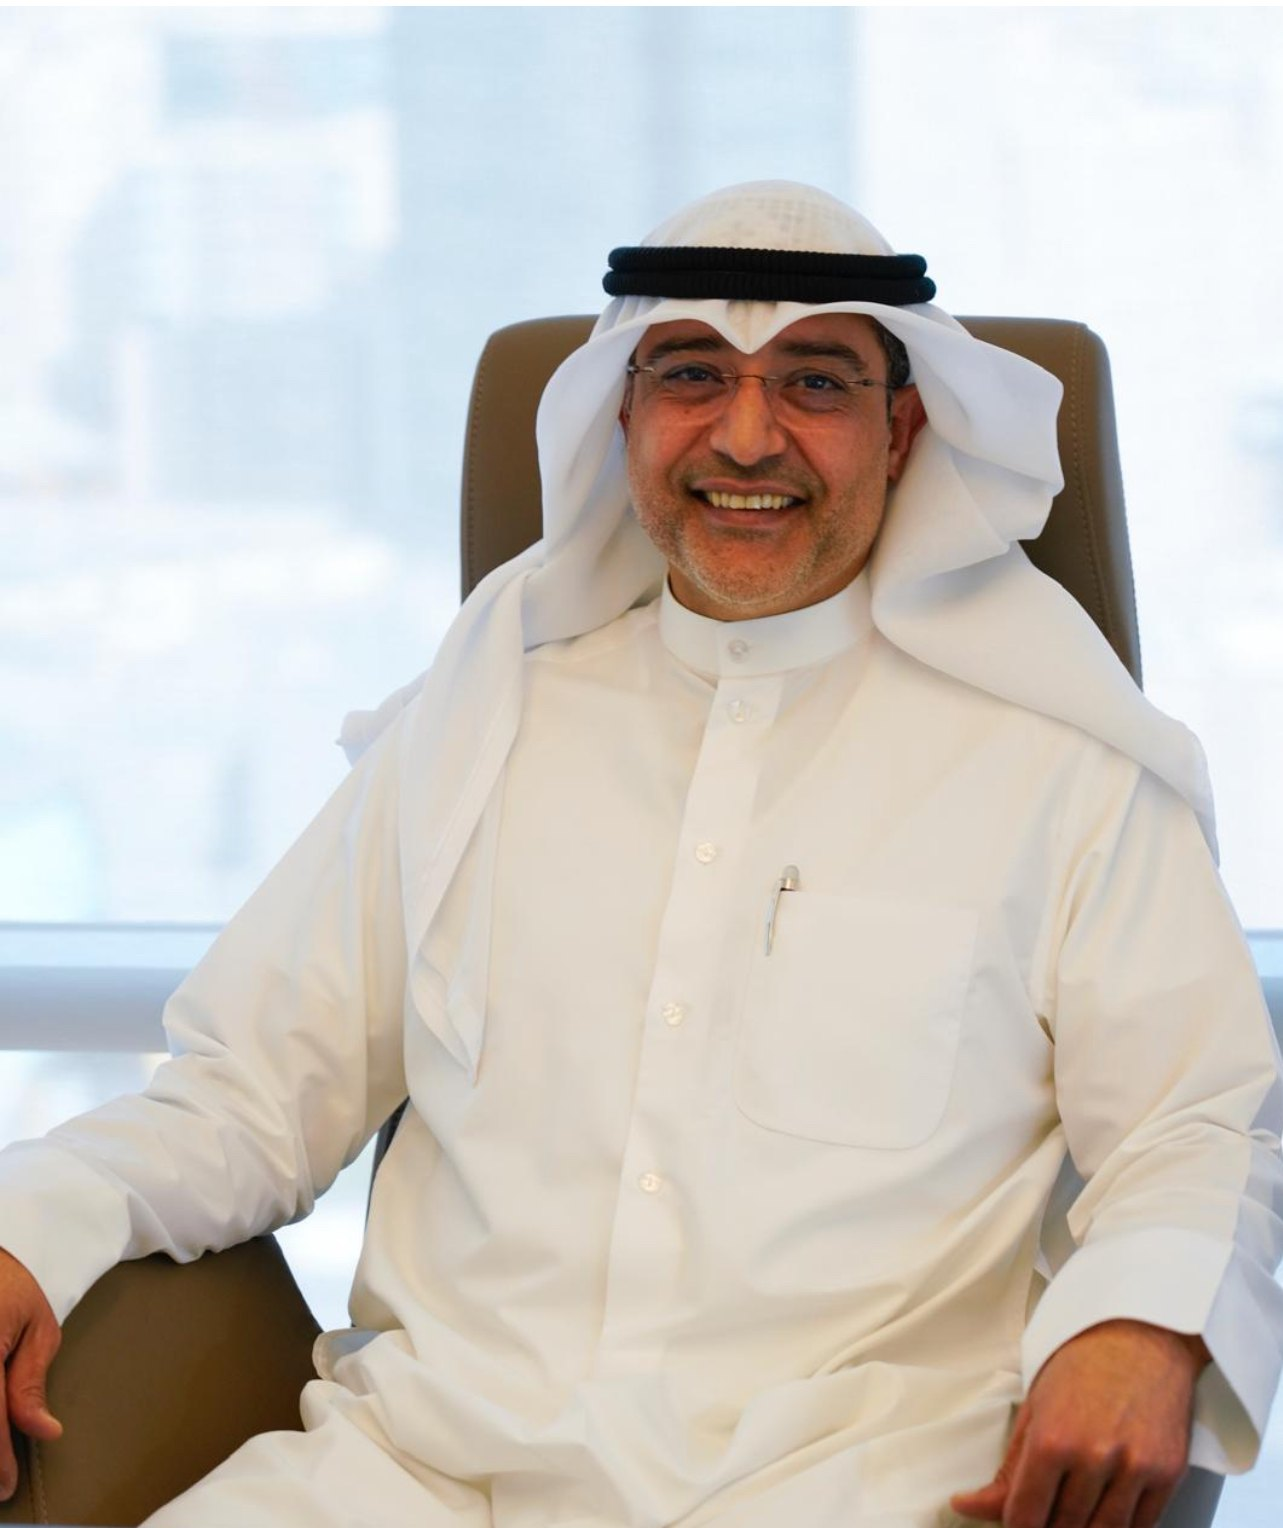
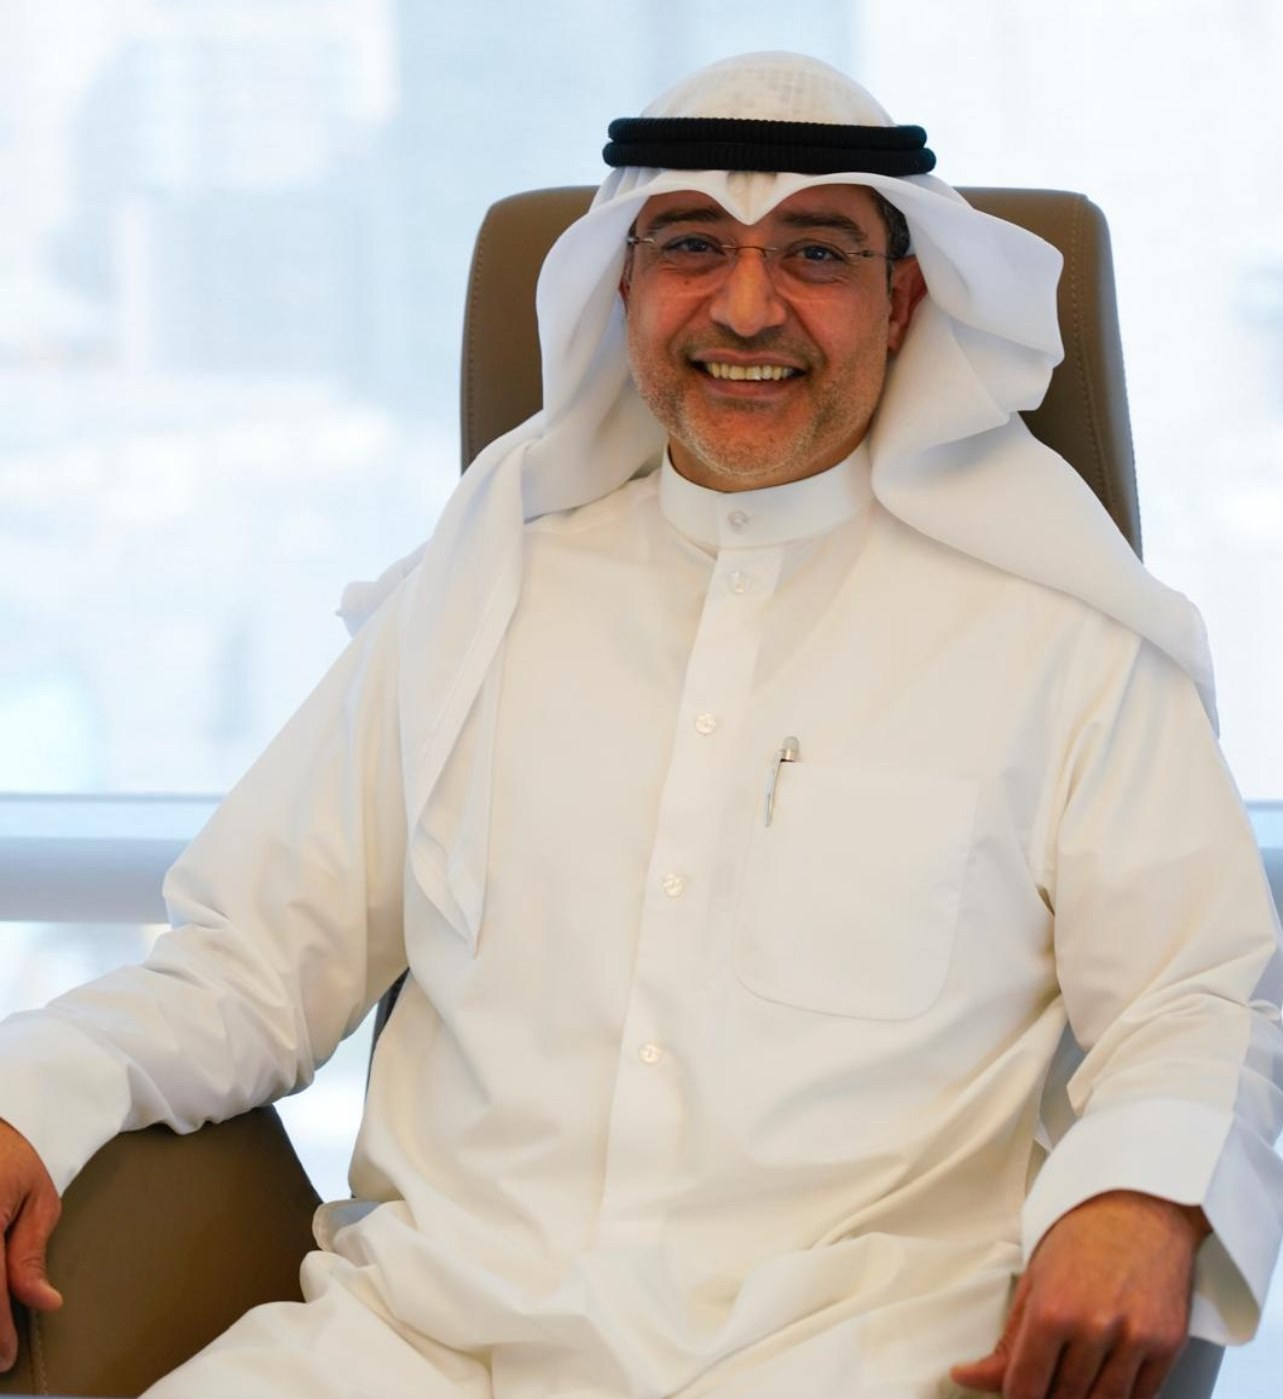
Add files via upload

diff --git a/script.js b/script.js
@@ -171,7 +171,6 @@ function initHeroFX() {
   }
 
   initHeroGem();     // المجسّم الرئيسي (Three.js)
-  initMiniGem();     // المجسّم المرافق الصغير
   initCursorRing();  // المؤشر الذهبي المخصّص
 }
 
@@ -285,69 +284,6 @@ function initHeroGem() {
     if (!reduced) {
       gem.rotation.y += 0.0016;            // دوران خمولي لطيف
       gem.position.y = Math.sin(t * 0.6) * 0.12; // طفو صعودًا وهبوطًا
-    }
-    renderer.render(scene, camera);
-  }
-  loop();
-}
-
-/* ============================================================
-   MINI GEM — المجسّم المرافق (أوكتاهيدرون ذهبي بجوار واتساب)
-   نفس فيزياء التتبّع المخمّد (lerp) — "ينظر" نحو المؤشر أينما ذهب
-   ============================================================ */
-function initMiniGem() {
-  var canvas = document.getElementById('miniGem');
-  if (!canvas || typeof THREE === 'undefined') return;
-  if (window.innerWidth <= 1024 || window.matchMedia('(hover: none)').matches) return;
-  var reduced = window.matchMedia('(prefers-reduced-motion: reduce)').matches;
-
-  var renderer;
-  try { renderer = new THREE.WebGLRenderer({ canvas: canvas, alpha: true, antialias: true }); }
-  catch (e) { return; }
-  renderer.setPixelRatio(Math.min(window.devicePixelRatio || 1, 2));
-  renderer.setSize(110, 110, false);
-
-  var scene = new THREE.Scene();
-  var camera = new THREE.PerspectiveCamera(45, 1, 0.1, 50);
-  camera.position.set(0, 0, 3.4);
-
-  var geo = new THREE.OctahedronGeometry(1.1, 0);
-  var mesh = new THREE.Mesh(geo, new THREE.MeshPhongMaterial({
-    color: 0xE8C468, specular: 0xFFF6D8, shininess: 100,
-    flatShading: true, emissive: 0x201603, emissiveIntensity: 0.55
-  }));
-  mesh.add(new THREE.LineSegments(
-    new THREE.WireframeGeometry(geo),
-    new THREE.LineBasicMaterial({ color: 0xC5A059, transparent: true, opacity: 0.4 })
-  ));
-  scene.add(mesh);
-  scene.add(new THREE.AmbientLight(0x223055, 1.0));
-  var key = new THREE.PointLight(0xFFE6A8, 1.4); key.position.set(2, 2, 3); scene.add(key);
-
-  // "ينظر" نحو المؤشر: زوايا هدف من موقع المؤشر نسبةً إلى موضع الكانفس الثابت
-  var tRX = 0, tRY = 0;
-  window.addEventListener('mousemove', function (e) {
-    var r = canvas.getBoundingClientRect();
-    var cx = r.left + r.width / 2, cy = r.top + r.height / 2;
-    tRY = Math.atan2(e.clientX - cx, 600) * 1.6;
-    tRX = Math.atan2(e.clientY - cy, 600) * 1.6;
-  }, { passive: true });
-
-  var running = true;
-  document.addEventListener('visibilitychange', function () {
-    running = !document.hidden; if (running) loop();
-  });
-
-  var t = 0;
-  function loop() {
-    if (!running) return;
-    requestAnimationFrame(loop);
-    t += 0.016;
-    mesh.rotation.x += (tRX - mesh.rotation.x) * 0.06; // نفس تخميد الرئيسي
-    mesh.rotation.y += (tRY - mesh.rotation.y) * 0.06;
-    if (!reduced) {
-      mesh.rotation.y += 0.002;
-      mesh.position.y = Math.sin(t * 0.8) * 0.1;
     }
     renderer.render(scene, camera);
   }

diff --git a/style.css b/style.css
@@ -71,31 +71,31 @@ h1, h2, h3, h4, h5 {
 /* ===== NAVBAR ===== */
 .navbar {
   position: fixed; top: 0; left: 0; right: 0; z-index: 1000;
-  padding: 1.2rem 0; transition: all 0.4s ease; background: transparent;
+  padding: 1rem 0; transition: all 0.4s ease;
 }
 .navbar.scrolled {
-  background: rgba(20,30,54,0.97); backdrop-filter: blur(20px);
+  background: #141E36; backdrop-filter: blur(20px);
   padding: 0.8rem 0; box-shadow: 0 4px 30px rgba(0,0,0,0.15);
 }
 .navbar .container { display: flex; align-items: center; justify-content: space-between; }
 .nav-logo { display: flex; align-items: center; gap: 0.8rem; text-decoration: none; }
-.nav-logo img { height: 55px; width: auto; filter: drop-shadow(0 0 9px rgba(232,196,104,0.3)); transition: filter var(--dur-luxe, 0.8s) cubic-bezier(0.16,1,0.3,1); }
-.navbar.scrolled .nav-logo img { height: 48px; }
+.nav-logo img { height: 66px; width: auto; filter: drop-shadow(0 0 9px rgba(232,196,104,0.3)); transition: filter var(--dur-luxe, 0.8s) cubic-bezier(0.16,1,0.3,1); }
+.navbar.scrolled .nav-logo img { height: 58px; }
 .nav-logo:hover img { filter: drop-shadow(0 0 18px rgba(232,196,104,0.65)); }
 .nav-logo-text { display: flex; flex-direction: column; line-height: 1.3; }
-.nav-logo-text .en { font-family: var(--font-en); font-weight: 700; font-size: 1.2rem; letter-spacing: 2.4px; color: var(--white); }
-.nav-logo-text .ar { font-size: 0.72rem; color: var(--gold-light); font-weight: 500; }
+.nav-logo-text .en { font-family: var(--font-en); font-weight: 700; font-size: 1.42rem; letter-spacing: 2.6px; color: var(--white); }
+.nav-logo-text .ar { font-size: 0.84rem; color: var(--gold-light); font-weight: 500; }
 .footer-logo { display: flex; align-items: center; gap: 0.8rem; margin-bottom: 1rem; }
 .footer-logo img { height: 50px; width: auto; }
 
 .nav-links {
-  display: flex; align-items: center; gap: 2rem;
+  display: flex; align-items: center; gap: 2.3rem;
   list-style: none;
 }
 .nav-links a {
   color: rgba(255,255,255,0.88); text-decoration: none;
-  font-family: var(--font-ar-head); /* Cairo 600 — خط القوائم الرسمي */
-  font-size: 1rem; font-weight: 600; position: relative;
+  font-family: var(--font-ar-head); /* Cairo — خط القوائم الرسمي */
+  font-size: 1.12rem; font-weight: 700; letter-spacing: 0.2px; position: relative;
   transition: color 0.4s var(--ease-luxe, ease), text-shadow 0.4s var(--ease-luxe, ease);
 }
 .nav-links a::after {
@@ -386,7 +386,7 @@ h1, h2, h3, h4, h5 {
 }
 .trainer-card:hover { transform: translateY(-8px); box-shadow: 0 15px 40px rgba(0,0,0,0.1); }
 .trainer-image { height: 280px; overflow: hidden; }
-.trainer-image img { width: 100%; height: 100%; object-fit: cover; transition: transform 0.5s ease; }
+.trainer-image img { width: 100%; height: 100%; object-fit: cover; object-position: center top; transition: transform 0.5s ease; }
 .trainer-card:hover .trainer-image img { transform: scale(1.05); }
 .trainer-placeholder {
   width: 100%; height: 100%; background: var(--navy);
@@ -614,7 +614,7 @@ h1, h2, h3, h4, h5 {
   .nav-links {
     position: fixed; top: 0; left: -100%;
     width: 74%; height: 100vh;
-    background: rgba(11,19,43,0.94);
+    background: rgba(20,30,54,0.97); /* كحلي الهوية */
     -webkit-backdrop-filter: blur(18px); backdrop-filter: blur(18px);
     box-shadow: 20px 0 60px rgba(0,0,0,0.5);
     flex-direction: column; justify-content: center;
@@ -657,13 +657,13 @@ h1, h2, h3, h4, h5 {
 
 /* --- هيدر زجاجي داكن دائم (Glassmorphism) --- */
 .navbar {
-  background: rgba(20, 30, 54, 0.85); /* كحلي الهوية #141E36 بزجاج فاخر */
+  background: #141E36; /* كحلي الهوية الرسمي — معتم، لا يتأثر بما خلفه */
   -webkit-backdrop-filter: blur(16px); backdrop-filter: blur(16px);
   border-bottom: 1px solid rgba(232,196,104,0.2);
   transition: background var(--dur-luxe) var(--ease-luxe), padding var(--dur-luxe) var(--ease-luxe), box-shadow var(--dur-luxe) var(--ease-luxe);
 }
 .navbar.scrolled {
-  background: rgba(20, 30, 54, 0.95);
+  background: #141E36;
   box-shadow: 0 12px 40px -12px rgba(0,0,0,0.55);
 }
 
@@ -792,14 +792,6 @@ main, .navbar, footer, section { position: relative; z-index: 1; }
 @media (hover: none), (pointer: coarse) { .cursor-ring { display: none; } }
 
 
-/* --- المجسّم المرافق: يمين الهيرو السفلي — الجهة المقابلة لواتساب --- */
-#miniGem {
-  position: absolute; right: 4%; bottom: 7%; z-index: 1;
-  width: 110px; height: 110px; pointer-events: none;
-  filter: drop-shadow(0 12px 24px rgba(0,0,0,0.5));
-  will-change: transform;
-}
-@media (max-width: 1024px), (hover: none) { #miniGem { display: none; } }
 
 /* --- شبكات الكروت: عمودان على التابلت (769–1024px) --- */
 @media (min-width: 769px) and (max-width: 1024px) {

diff --git a/index.html b/index.html
@@ -79,7 +79,6 @@
         <canvas id="heroParticles" aria-hidden="true"></canvas>
         <!-- المجسّم ثلاثي الأبعاد (جوهرة القيادة) — يُهيّأ بـ Three.js على الديسكتوب فقط -->
         <canvas id="heroGem" aria-hidden="true"></canvas>
-        <canvas id="miniGem" aria-hidden="true"></canvas>
         <img src="logo-icon.png" alt="" class="hero-watermark" aria-hidden="true" />
         <div class="container">
           <div class="hero-content">